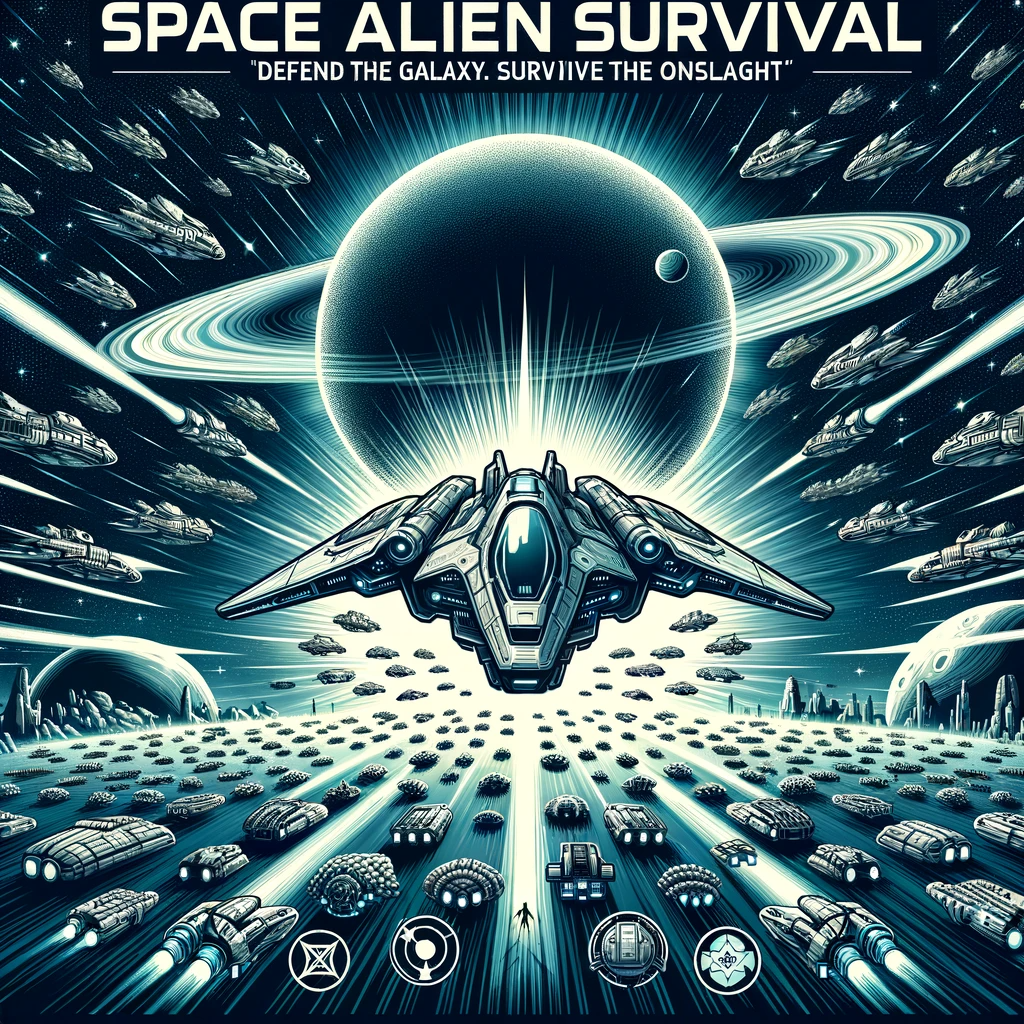
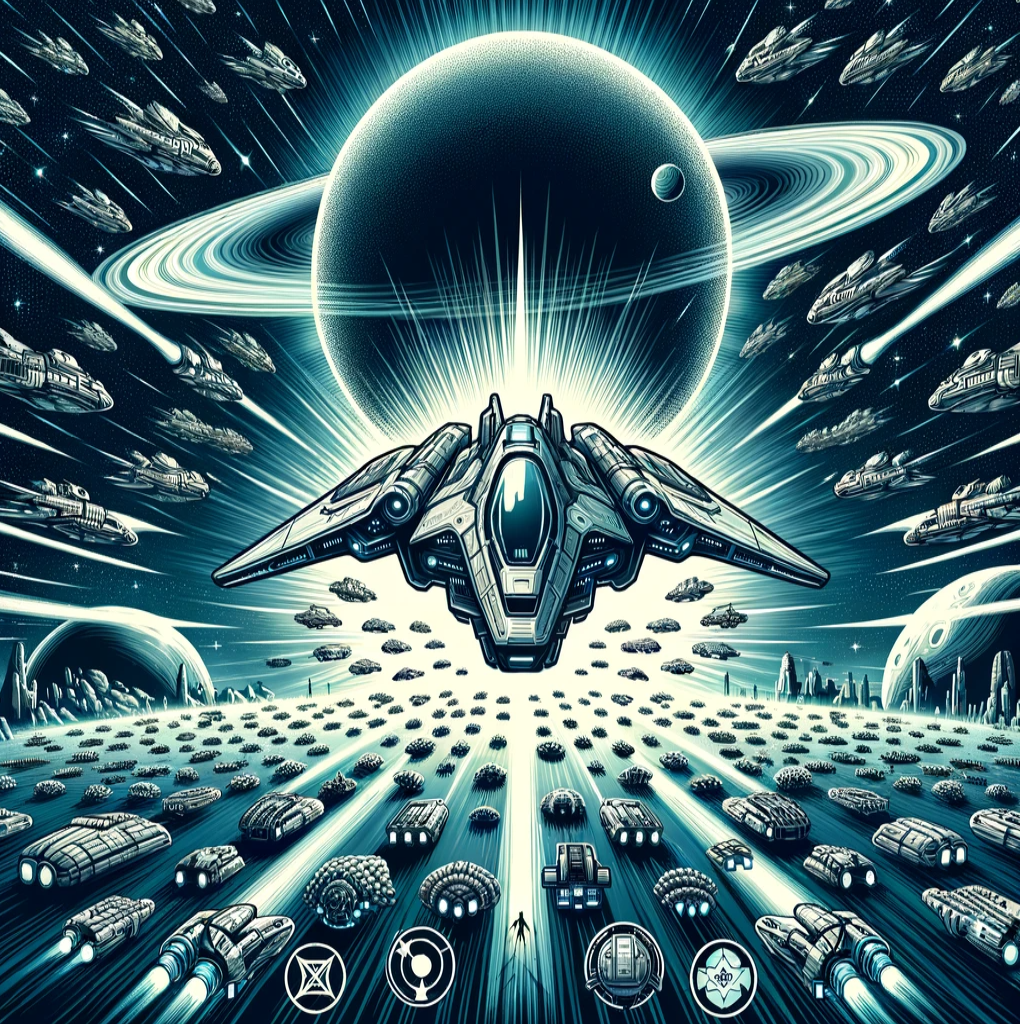
Screen splash mods

diff --git a/games/spacealiensurvival/src/scenes/SplashScreen.ts b/games/spacealiensurvival/src/scenes/SplashScreen.ts
@@ -9,25 +9,25 @@ export class SplashScreen extends Phaser.Scene {
     public static IMAGE_BORDER_PADDING = 60;
 
     public splashText?: Phaser.GameObjects.Text;
-    public image?: Phaser.GameObjects.Image;
+    public gamescreenBackgroundImage?: Phaser.GameObjects.Image;
 
-    public static textureNames = ["bricks", 
-                                  "bricks2", 
-                                  "rockwall", 
-                                  "metal"];
+    public static textureNames = ["bricks",
+        "bricks2",
+        "rockwall",
+        "metal"];
 
-    public static enemySpaceships = ["enemyspaceship4", 
-                                     "enemyspaceship4B", 
-                                     "bossenemyspaceship4", 
-                                     "enemysaucer1", 
-                                     "enemysaucer2", 
-                                     "darthvader", 
-                                     "enemyspacejet" ];
+    public static enemySpaceships = ["enemyspaceship4",
+        "enemyspaceship4B",
+        "bossenemyspaceship4",
+        "enemysaucer1",
+        "enemysaucer2",
+        "darthvader",
+        "enemyspacejet"];
 
-    public static backgrounds = ["background1", "background2", "background3", "background4", "background5", 
-                                 "background6", "background7", "background8", "background9", "background10",
-                                 "background11", "background12", "background13", "background14", "background15",
-                                 "background16", "background17", "background18", "background19", "background20"];
+    public static backgrounds = ["background1", "background2", "background3", "background4", "background5",
+        "background6", "background7", "background8", "background9", "background10",
+        "background11", "background12", "background13", "background14", "background15",
+        "background16", "background17", "background18", "background19", "background20"];
 
 
     constructor() {
@@ -58,7 +58,7 @@ export class SplashScreen extends Phaser.Scene {
         this.load.audio('fail', 'sound/fail.mp3');
         this.load.audio('success', 'sound/success.mp3');
         this.load.audio('levelcomplete', 'sound/levelcomplete.mp3');
-        
+
 
         this.splashText.setText("Loading Player...")
         this.load.atlas('flares', 'images/flares.png', 'images/flares.json');
@@ -66,11 +66,11 @@ export class SplashScreen extends Phaser.Scene {
 
         this.splashText.setText("SplashScreen...")
         this.load.image('gamescreen', 'images/gamescreen.png');
-        
+
         SplashScreen.enemySpaceships.forEach((spaceship) => {
             this.splashText?.setText("Loading enemies: " + spaceship + "...");
             this.load.image(spaceship, 'images/' + spaceship + '.png');
-        
+
         });
 
         SplashScreen.backgrounds.forEach((background) => {
@@ -89,11 +89,7 @@ export class SplashScreen extends Phaser.Scene {
     }
 
     create() {
-        this.image = this.add.image(this.scale.width / 2,
-            this.scale.height / 2,
-            "gamescreen");
-        this.image?.setDisplaySize((this.scale.width) - SplashScreen.IMAGE_BORDER_PADDING, (this.scale.height) - SplashScreen.IMAGE_BORDER_PADDING);
-
+        this.createBackgroundImage();
         this.splashText?.setText('ShyHumanGames LLC - Click to Start');
         this.splashText?.setOrigin(0.5);
         this.splashText?.setDepth(1);
@@ -109,7 +105,7 @@ export class SplashScreen extends Phaser.Scene {
                 this.handleWindowResize();
             }
         }, 500);
-    
+
     }
 
 
@@ -123,7 +119,47 @@ export class SplashScreen extends Phaser.Scene {
         this.splashText?.setDepth(1);
 
 
-        this.image?.setPosition(w / 2, h / 2);
-        this.image?.setDisplaySize((w) - SplashScreen.IMAGE_BORDER_PADDING, (h) - SplashScreen.IMAGE_BORDER_PADDING);
+        this.resizeStarBackground();
+    }
+
+
+
+    createBackgroundImage() {
+        this.gamescreenBackgroundImage = this.add.image(window.innerWidth / 2,
+            window.innerHeight / 2, "gamescreen"
+        );
+
+        this.resizeStarBackground();
+    }
+
+
+    public resizeStarBackground() {
+        if (!this.gamescreenBackgroundImage) {
+            return;
+        }
+        const screenWidth = window.innerWidth;
+        const screenHeight = window.innerHeight;
+        const screenAspectRatio = screenWidth / screenHeight;
+
+        const imageWidth = this.gamescreenBackgroundImage.width;
+        const imageHeight = this.gamescreenBackgroundImage.height;
+        const imageAspectRatio = imageWidth / imageHeight;
+
+        let newWidth, newHeight;
+
+        // The image is wider relative to the screen, set the image width to match the screen width
+        newWidth = screenWidth;
+        newHeight = newWidth / imageAspectRatio;  // Adjust height proportionally
+
+        // Check if the new height is less than the screen height, if so adjust the dimensions
+        if (newHeight < screenHeight) {
+            newHeight = screenHeight;
+            newWidth = newHeight * imageAspectRatio;  // Adjust width proportionally
+        }
+        this.gamescreenBackgroundImage.setDisplaySize(newWidth, newHeight);
+
+        // Ensure the image is positioned in the center of the screen
+        this.gamescreenBackgroundImage.setPosition(screenWidth / 2, screenHeight / 2);
+
     }
 }
